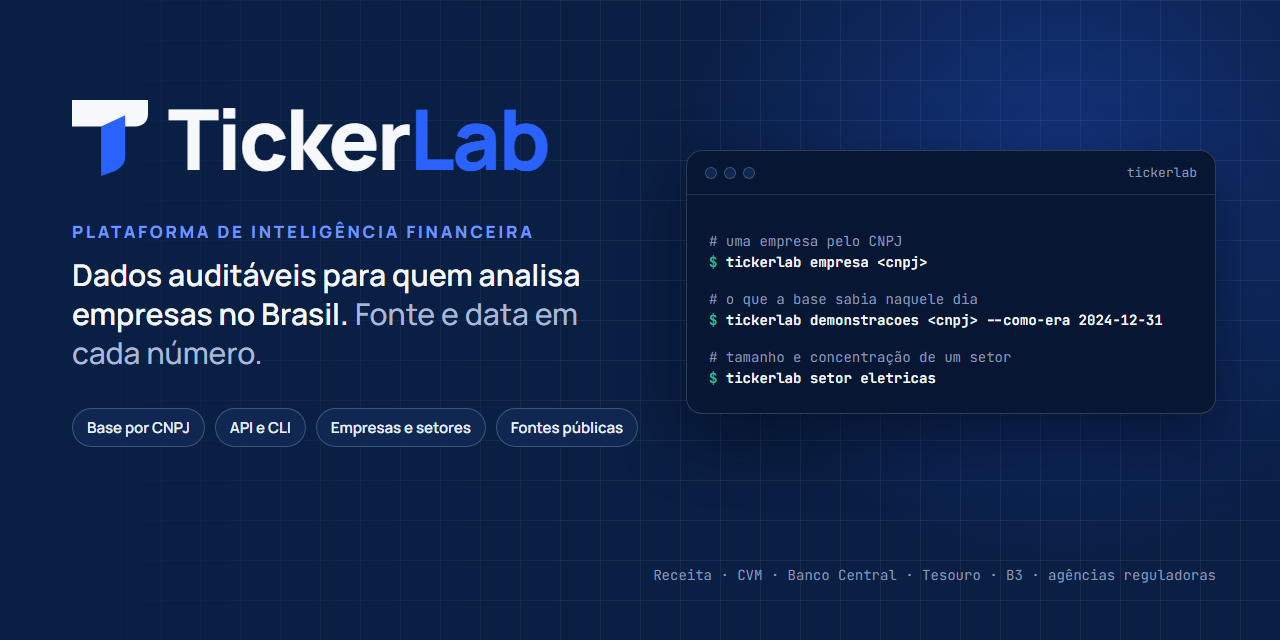
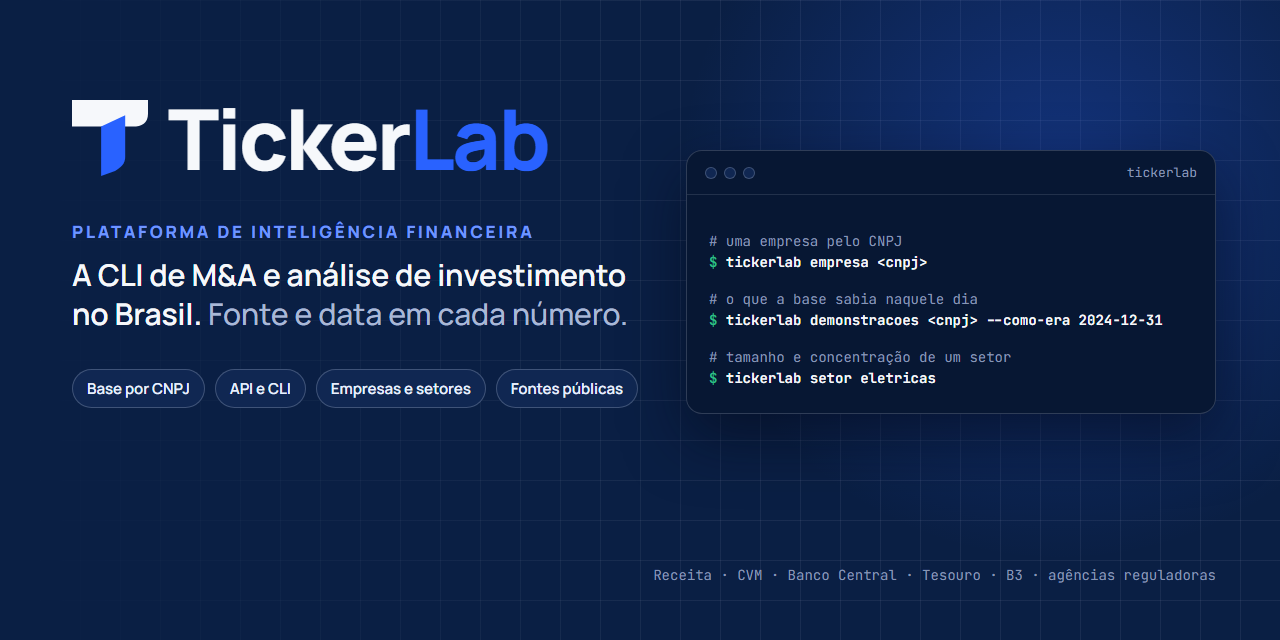
docs: README e cabeçalho do GitHub com a assinatura nova

Changed region(s): [[0.0312, 0.4062, 0.5, 0.6875]]

diff --git a/docs/banner.html b/docs/banner.html
@@ -53,7 +53,7 @@ html, body { margin: 0; width: 1280px; height: 400px; overflow: hidden; backgrou
     <div class="nome">Ticker<b>Lab</b></div>
   </div>
   <div class="olho">Plataforma de inteligência financeira</div>
-  <div class="frase">Dados auditáveis para quem analisa empresas no Brasil. <span>Fonte e data em cada número.</span></div>
+  <div class="frase">A CLI de M&amp;A e análise de investimento no Brasil. <span>Fonte e data em cada número.</span></div>
   <div class="pilulas"><span class="p">Base por CNPJ</span><span class="p">API e CLI</span><span class="p">Empresas e setores</span><span class="p">Fontes públicas</span></div>
 </div>
 <div class="terminal">

diff --git a/README.md b/README.md
@@ -1,5 +1,5 @@
 <p align="center">
-  <img src="docs/imagens/banner.png" alt="TickerLab: dados auditáveis para quem analisa empresas no Brasil" width="100%">
+  <img src="docs/imagens/banner.png" alt="TickerLab: a CLI de M&A e análise de investimento no Brasil" width="100%">
 </p>
 
 <p align="center">
@@ -24,7 +24,7 @@
 
 # TickerLab
 
-**Dados auditáveis para quem analisa empresas no Brasil.** O TickerLab é uma plataforma de
+**A CLI de M&A e análise de investimento no Brasil.** O TickerLab é uma plataforma de
 inteligência financeira, em fase de testes: junta as fontes públicas brasileiras (Receita, CVM, Banco
 Central, Tesouro, B3, agências reguladoras e outros órgãos) numa base própria, ligada pelo **CNPJ**,
 e entrega cada número com a **fonte**, a **data em que ficou público** e o caminho até o arquivo
